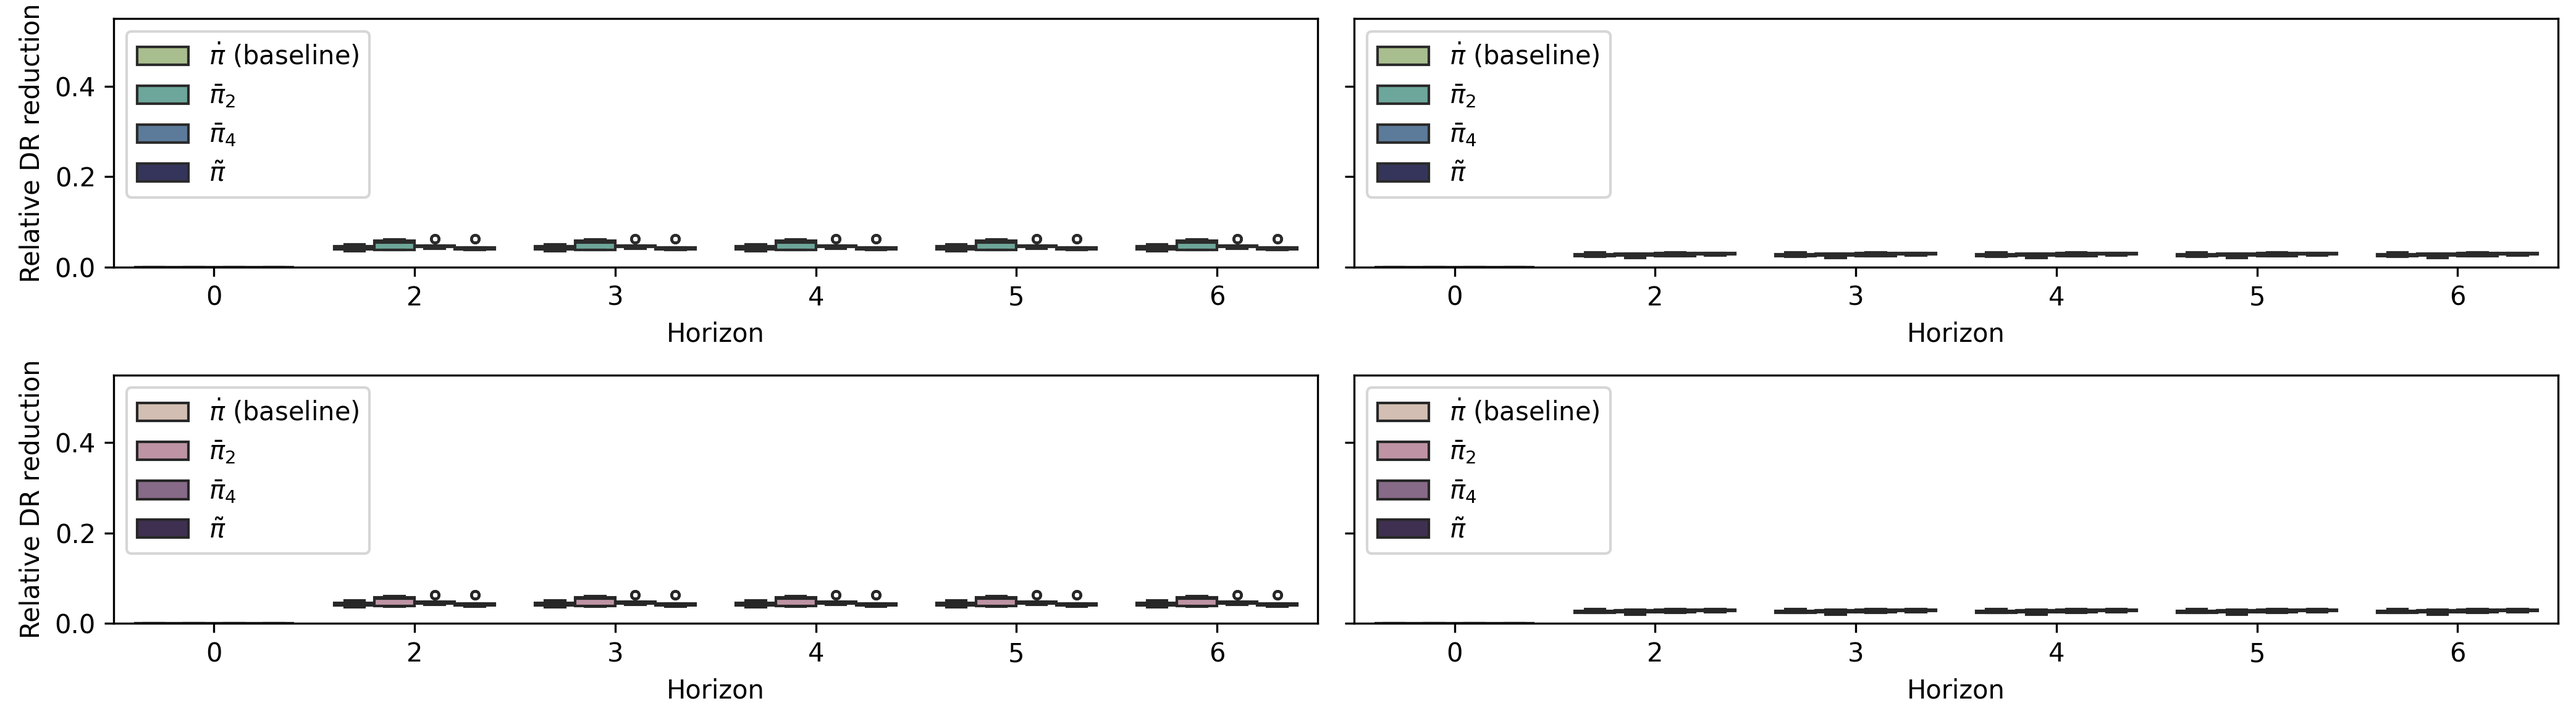
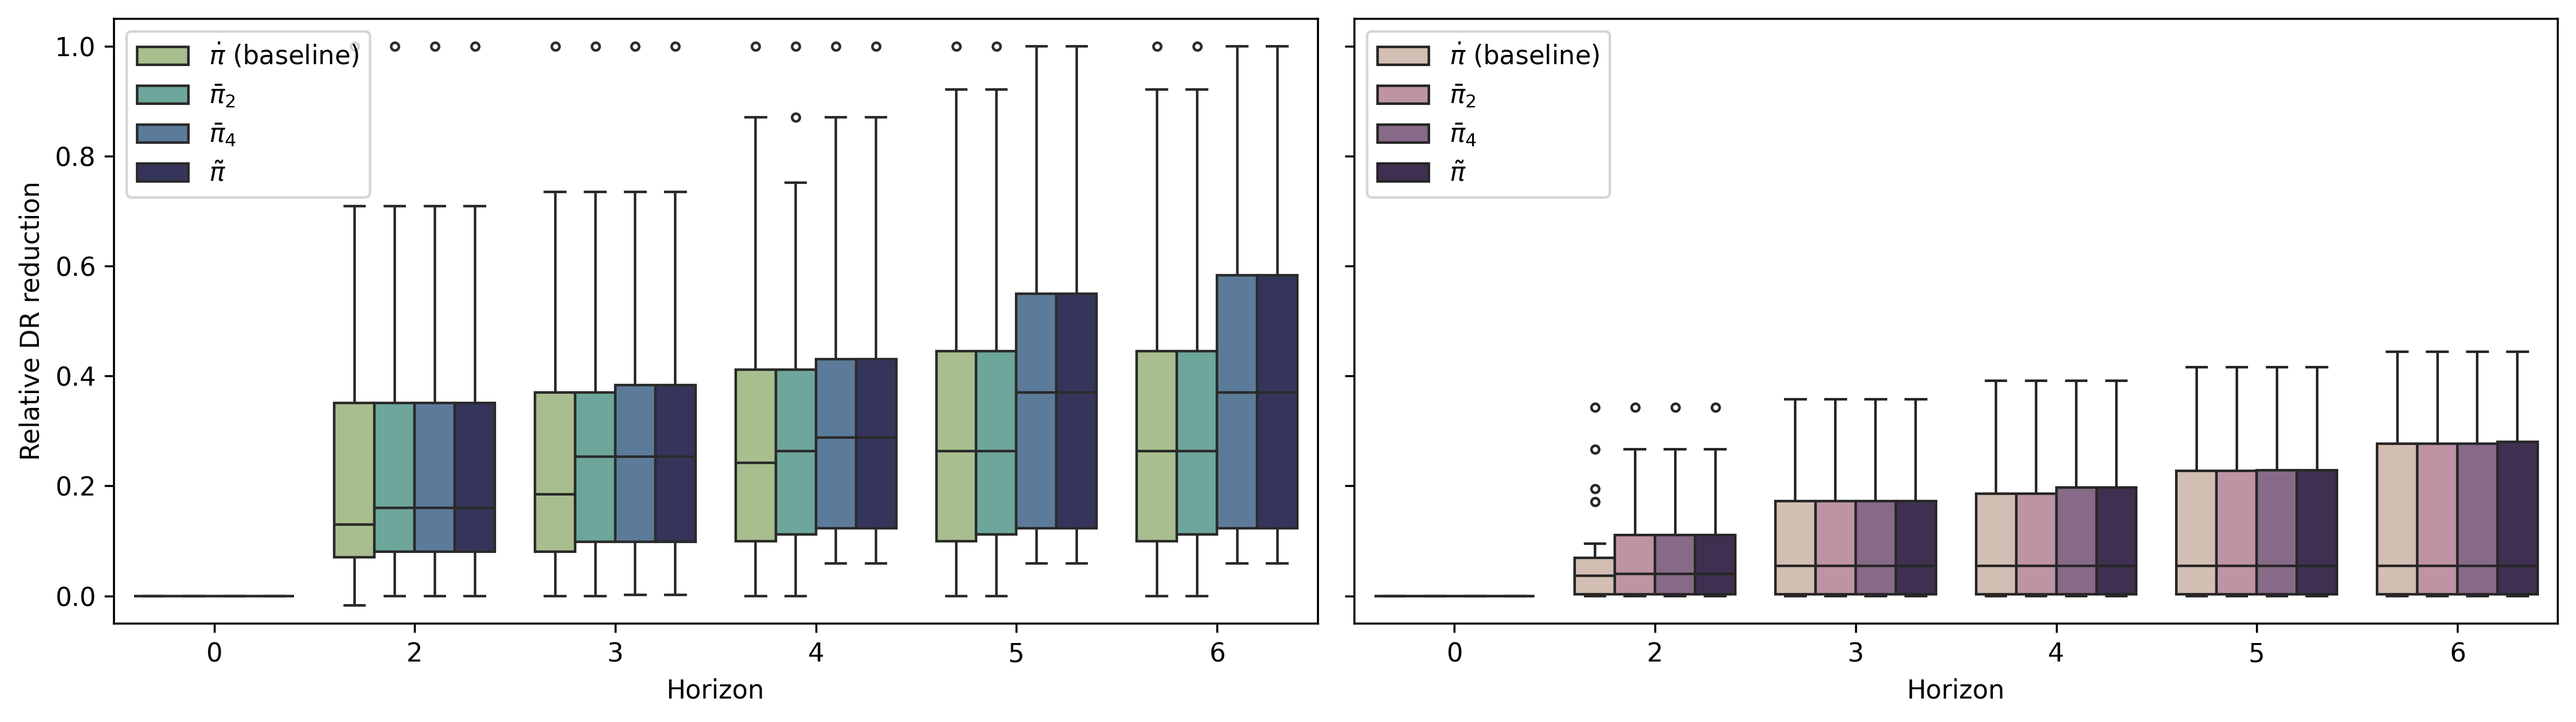
Final

diff --git a/AI/Paper/Dynamic-Range-reducer/main.py b/AI/Paper/Dynamic-Range-reducer/main.py
@@ -4,7 +4,7 @@ import pandas as pd
 import numpy as np
 
 from Dynamic_Range_Reducer import QUBODynamicRangeReducer
-from data_producer import binclus_qubo
+import data_producer as dp
 from gurobi import solve_qubo
 
 print("\033c", end="")
@@ -13,8 +13,8 @@ print("\033c", end="")
 qubo_n4 = []
 qubo_n8 = []
 for k in range(20):
-    qubo_n4.append(binclus_qubo(4, k))
-    qubo_n8.append(binclus_qubo(8, k))
+    qubo_n4.append(dp.subsum_qubo(4, k))
+    qubo_n8.append(dp.subsum_qubo(8, k))
 
 np.save('qubo_n4.npy', qubo_n4)
 np.save('qubo_n8.npy', qubo_n8)
@@ -22,13 +22,14 @@ np.save('qubo_n8.npy', qubo_n8)
 # 读取数据并计算
 qubo_n4 = np.load('qubo_n4.npy', allow_pickle=True)
 qubo_n8 = np.load('qubo_n8.npy', allow_pickle=True)
+
 # 记录修剪比例
 pruned_state_n4 = []
 pruned_state_n8 = []
-for k in range(20):
-    print(f"Iteration {k+1}/20")
-    for i in range(2, 6):
-        print(f"  Param {i}/5")
+for i in range(2, 6):
+    print(f"Param {i}/5")
+    for k in range(20):
+        print(f"  Iteration {k+1}/20")
         for j in range(2, 7):
             print(f"    Horizon {j}/6")
             reducer4 = QUBODynamicRangeReducer(qubo_n4[k], j, i, 'mixed', verbose=False)
@@ -105,14 +106,12 @@ sns.boxplot(
 )
 # 美化
 for ax in axes:
-    ax.set_ylim(0, 1.05)
+    ax.set_ylim(-0.05, 1.05)
     ax.set_xlabel("Horizon")
     ax.set_ylabel("Fraction of pruned states")
     ax.legend(title="", loc="upper left")
 plt.tight_layout()
 plt.savefig('assets/Fraction_of_pruned_states.png', dpi=300, bbox_inches='tight')
-plt.show()
-
 
 # DR reduction plot
 strategies = ["base", 2, 4, "selection"]
@@ -121,14 +120,15 @@ DR_all_n4 = []
 DR_all_n8 = []
 DR_impact_n4 = []
 DR_impact_n8 = []
-for k in range(20):
-    print(f"Iteration {k+1}/20")
-    for i in ["base", 2, 4, "selection"]:
-        print(f"  Strategy {i}")
+for i in ["base", 2, 4, "selection"]:
+    print(f"Strategy {i}")
+    for k in range(20):
+        print(f"  Iteration {k+1}/20")
         for j in [0, 2, 3, 4, 5, 6]:
             print(f"    Horizon {j}/6")
             # 记录 DR_reduction
             if i == "base":
+                '''
                 reducer4_all = QUBODynamicRangeReducer(qubo_n4[k], j, 0, 'base', 'ALL', verbose=False)
                 reduced_Q, final_DR = reducer4_all.reduce_dynamic_range()
                 initial_DR = reducer4_all.original_DR
@@ -138,7 +138,7 @@ for k in range(20):
                 reduced_Q, final_DR = reducer8_all.reduce_dynamic_range()
                 initial_DR = reducer8_all.original_DR
                 DR_all_n8.append((initial_DR - final_DR) / initial_DR)
-
+                '''
                 reducer4_impact = QUBODynamicRangeReducer(qubo_n4[k], j, 0, 'base', 'IMPACT', verbose=False)
                 reduced_Q, final_DR = reducer4_impact.reduce_dynamic_range()
                 initial_DR = reducer4_impact.original_DR
@@ -149,6 +149,7 @@ for k in range(20):
                 initial_DR = reducer8_impact.original_DR
                 DR_impact_n8.append((initial_DR - final_DR) / initial_DR)
             elif i == "selection":
+                '''
                 reducer4_all = QUBODynamicRangeReducer(qubo_n4[k], j, 2, 'selection', 'ALL', verbose=False)
                 reduced_Q, final_DR = reducer4_all.reduce_dynamic_range()
                 initial_DR = reducer4_all.original_DR
@@ -158,7 +159,7 @@ for k in range(20):
                 reduced_Q, final_DR = reducer8_all.reduce_dynamic_range()
                 initial_DR = reducer8_all.original_DR
                 DR_all_n8.append((initial_DR - final_DR) / initial_DR)
-
+                '''
                 reducer4_impact = QUBODynamicRangeReducer(qubo_n4[k], j, 2, 'selection', 'IMPACT', verbose=False)
                 reduced_Q, final_DR = reducer4_impact.reduce_dynamic_range()
                 initial_DR = reducer4_impact.original_DR
@@ -170,6 +171,7 @@ for k in range(20):
                 DR_impact_n8.append((initial_DR - final_DR) / initial_DR)
 
             else:
+                '''
                 reducer4_all = QUBODynamicRangeReducer(qubo_n4[k], j, i, 'mixed', 'ALL', verbose=False)
                 reduced_Q, final_DR = reducer4_all.reduce_dynamic_range()
                 initial_DR = reducer4_all.original_DR
@@ -179,7 +181,7 @@ for k in range(20):
                 reduced_Q, final_DR = reducer8_all.reduce_dynamic_range()
                 initial_DR = reducer8_all.original_DR
                 DR_all_n8.append((initial_DR - final_DR) / initial_DR)
-
+                '''
                 reducer4_impact = QUBODynamicRangeReducer(qubo_n4[k], j, i, 'mixed', 'IMPACT', verbose=False)
                 reduced_Q, final_DR = reducer4_impact.reduce_dynamic_range()
                 initial_DR = reducer4_impact.original_DR
@@ -199,6 +201,7 @@ strategies = np.repeat(["$\\dot{\\pi}$ (baseline)",
 # 设置颜色
 colors = ["#a8c686", "#63b0a0", "#527ba4", "#2f2e63","#d7bcad", "#c58ca3", "#8c658c", "#3f2b56"]
 # 构造成 DataFrame
+'''
 df_all_n4 = pd.DataFrame({
     "Horizon": horizons,
     "Relative DR reduction": DR_all_n4,
@@ -209,6 +212,7 @@ df_all_n8 = pd.DataFrame({
     "Relative DR reduction": DR_all_n8,
     "Strategy": strategies
 })
+'''
 df_impact_n4 = pd.DataFrame({
     "Horizon": horizons,
     "Relative DR reduction": DR_impact_n4,
@@ -220,17 +224,17 @@ df_impact_n8 = pd.DataFrame({
     "Strategy": strategies
 })
 # 画图
-fig, axes = plt.subplots(2, 2, figsize=(14, 4), sharey=True)
+fig, axes = plt.subplots(1, 2, figsize=(14, 4), sharey=True)
 # 子图数据划分
 subsets = [
-    df_all_n4[df_all_n4["Strategy"].isin(["$\\dot{\\pi}$ (baseline)", "$\\bar{\\pi}_2$", "$\\bar{\\pi}_4$", "$\\tilde{\\pi}$"])],
-    df_all_n8[df_all_n8["Strategy"].isin(["$\\dot{\\pi}$ (baseline)", "$\\bar{\\pi}_2$", "$\\bar{\\pi}_4$", "$\\tilde{\\pi}$"])],
+    # df_all_n4[df_all_n4["Strategy"].isin(["$\\dot{\\pi}$ (baseline)", "$\\bar{\\pi}_2$", "$\\bar{\\pi}_4$", "$\\tilde{\\pi}$"])],
+    # df_all_n8[df_all_n8["Strategy"].isin(["$\\dot{\\pi}$ (baseline)", "$\\bar{\\pi}_2$", "$\\bar{\\pi}_4$", "$\\tilde{\\pi}$"])],
     df_impact_n4[df_impact_n4["Strategy"].isin(["$\\dot{\\pi}$ (baseline)", "$\\bar{\\pi}_2$", "$\\bar{\\pi}_4$", "$\\tilde{\\pi}$"])],
     df_impact_n8[df_impact_n8["Strategy"].isin(["$\\dot{\\pi}$ (baseline)", "$\\bar{\\pi}_2$", "$\\bar{\\pi}_4$", "$\\tilde{\\pi}$"])]
 ]
 for ax, subset in zip(axes.flatten(), subsets):
     # 根据子图索引选择不同的配色
-    color_idx = 0 if ax in axes[0] else 4
+    color_idx = 0 if ax == axes[0] else 4
     sns.boxplot(
         data=subset,
         x="Horizon",
@@ -243,7 +247,7 @@ for ax, subset in zip(axes.flatten(), subsets):
     )
     ax.set_xlabel("Horizon")
     ax.set_ylabel("Relative DR reduction")
-    ax.set_ylim(0, 0.55)
+    ax.set_ylim(-0.05, 1.05)
     ax.legend(title="", loc="upper left")
 plt.tight_layout()
 plt.savefig('assets/Relative_DR_reduction.png', dpi=300, bbox_inches='tight')

diff --git a/AI/Paper/Dynamic-Range-reducer/Dynamic_Range_Reducer.py b/AI/Paper/Dynamic-Range-reducer/Dynamic_Range_Reducer.py
@@ -2,7 +2,6 @@ import numpy as np
 import math
 import itertools
 import networkx as nx
-import random
 from typing import Tuple, List
 from collections import deque
 
